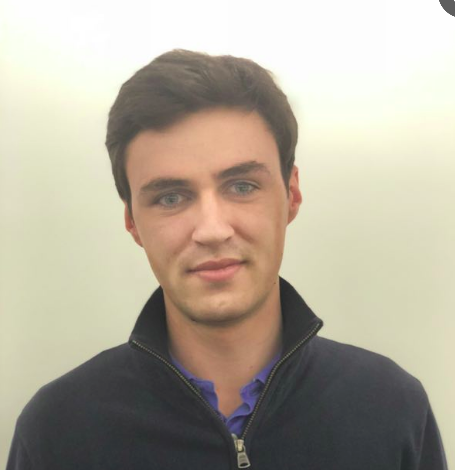
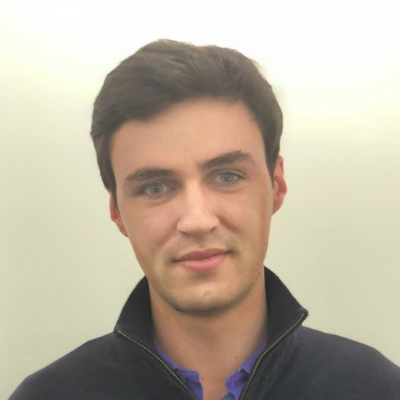
Add Penny ambassador

diff --git a/index.html b/index.html
@@ -162,7 +162,7 @@
 				</div>
 				<div class="fadeInUp animated col-md-12 col-sm-12 col-xs-12 text-center formula">
 					<h2>
-						MST +  Avatar + Oracles + On-chain Exchange 
+						MST +  Avatar + Oracles + On-chain Exchange
 					</h2>
 					<h2>
 						=
@@ -508,10 +508,10 @@
 					</div>
 					<div class="col-xs-12 col-sm-6 col-lg-3 fadeInUp animated">
 						<div class="text-center">
-							<img src="images/team/stanley.png" alt="Stanley" title="Stanley" class="photo">
+							<img src="images/team/penny.png" alt="Penny" title="Penny" class="photo">
 							<div class="personal-info">
-								<strong class="t-name">Stanley</strong>
-								<em class="positionboxx">Singapore</em>
+								<strong class="t-name">Penny</strong>
+								<em class="positionboxx">Hong Kong</em>
 							</div>
 						</div>
 					</div>

diff --git a/index_cn.html b/index_cn.html
@@ -513,10 +513,10 @@
 					</div>
 					<div class="col-xs-12 col-sm-6 col-lg-3 fadeInUp animated">
 						<div class="text-center">
-							<img src="images/team/stanley.png" alt="Stanley" title="Stanley" class="photo">
+							<img src="images/team/penny.png" alt="Penny" title="Penny" class="photo">
 							<div class="personal-info">
-								<strong class="t-name">Stanley</strong>
-								<em class="positionboxx">Singapore</em>
+								<strong class="t-name">Penny</strong>
+								<em class="positionboxx">Hong Kong</em>
 							</div>
 						</div>
 					</div>
